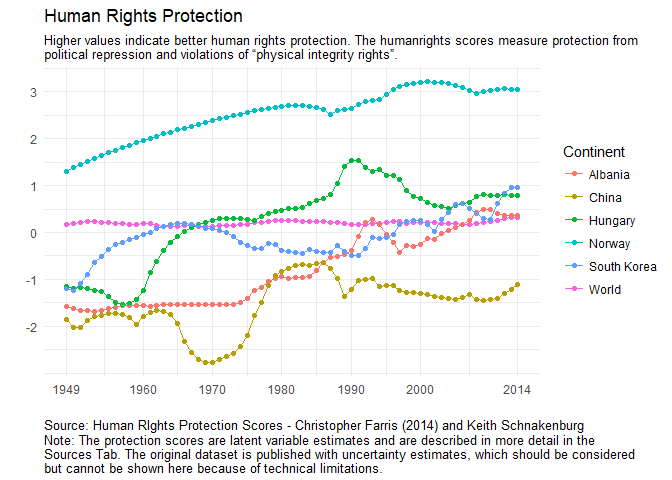
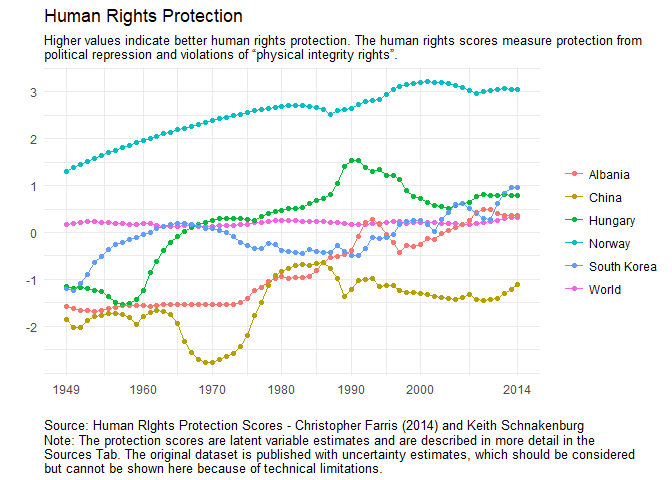
Fixed a spelling error and removed color legend header

Changed region(s): [[0.625, 0.0625, 0.9688, 0.0938], [0.8438, 0.3125, 0.9375, 0.3438]]

diff --git a/Case_Study_03/Class_Task_06/Human_Rights.html b/Case_Study_03/Class_Task_06/Human_Rights.html
@@ -161,14 +161,14 @@ filter(rights, country == 'Norway' | country == 'China' | country == 'South Kore
   geom_line(mapping = aes(year, score, color = country)) +
   scale_y_continuous(breaks = seq(-2, 3, by = 1)) +
   scale_x_continuous(breaks = c(1949, seq(1960, 2000, by = 10), 2014)) +
-  labs(title = &quot;Human Rights Protection&quot;, x = &quot;&quot;, y = &quot;&quot;, subtitle = &quot;Higher values indicate better human rights protection. The humanrights scores measure protection from
+  labs(title = &quot;Human Rights Protection&quot;, x = &quot;&quot;, y = &quot;&quot;, subtitle = &quot;Higher values indicate better human rights protection. The human rights scores measure protection from
 political repression and violations of “physical integrity rights”.&quot;, 
 caption = &quot;Source: Human RIghts Protection Scores - Christopher Farris (2014) and Keith Schnakenburg
 Note: The protection scores are latent variable estimates and are described in more detail in the
 Sources Tab. The original dataset is published with uncertainty estimates, which should be considered
-but cannot be shown here because of technical limitations.&quot;, color = &quot;Continent&quot;) +
+but cannot be shown here because of technical limitations.&quot;, color = &quot;&quot;) +
   theme(plot.caption = element_text(hjust = 0.0))</code></pre>
[2 lines of base64/hex data omitted]
 
 
 

diff --git a/Case_Study_03/Class_Task_06/Human_Rights.md b/Case_Study_03/Class_Task_06/Human_Rights.md
@@ -33,12 +33,12 @@ filter(rights, country == 'Norway' | country == 'China' | country == 'South Kore
   geom_line(mapping = aes(year, score, color = country)) +
   scale_y_continuous(breaks = seq(-2, 3, by = 1)) +
   scale_x_continuous(breaks = c(1949, seq(1960, 2000, by = 10), 2014)) +
-  labs(title = "Human Rights Protection", x = "", y = "", subtitle = "Higher values indicate better human rights protection. The humanrights scores measure protection from
+  labs(title = "Human Rights Protection", x = "", y = "", subtitle = "Higher values indicate better human rights protection. The human rights scores measure protection from
 political repression and violations of “physical integrity rights”.", 
 caption = "Source: Human RIghts Protection Scores - Christopher Farris (2014) and Keith Schnakenburg
 Note: The protection scores are latent variable estimates and are described in more detail in the
 Sources Tab. The original dataset is published with uncertainty estimates, which should be considered
-but cannot be shown here because of technical limitations.", color = "Continent") +
+but cannot be shown here because of technical limitations.", color = "") +
   theme(plot.caption = element_text(hjust = 0.0))
 ```
 
